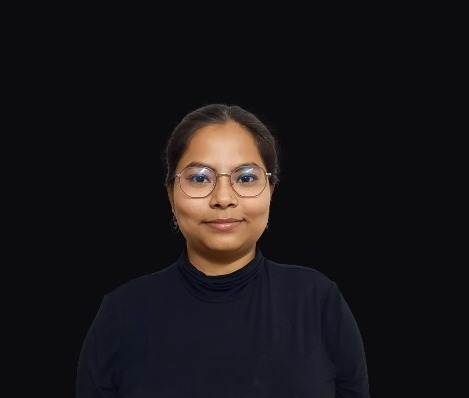
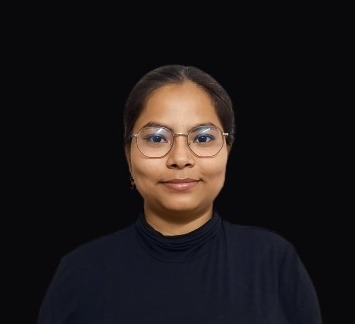
Updated alignments and background colors

diff --git a/index.html b/index.html
@@ -11,7 +11,7 @@
     <div id="header">
         <div class="nav-container">
             <nav>
-                <img src="AK_logo.png" width="200px" height="120px">
+                <img src="Ak_logo.jpg" width="200px" height="120px">
                 <ul>
                     <li>
                         <a href="#header">Home</a>
@@ -28,9 +28,9 @@
                 </ul>
             </nav>  
             <div class="intro-text">
-                <p>REACT JS, C++, C INSTRUCTOR, DEVELOPER</p>
+                <p>REACT, JS, C++ INSTRUCTOR, DEVELOPER</p>
                 <h1>Hello, I am <span>Akriti</span><br> from Kanpur</h1>
-                <p>Expert in ReactJS, JavaScript and C++</p>
+                <p>Expert in ReactJS, JavaScript, C++, C</p>
             </div>   
         </div>
     </div>
@@ -39,6 +39,7 @@
             <div class="about-row">
                     <div class="about-col-1">
                             <img src="ak_intro.jpg">
+                            
                     </div>
                     <div class="about-col-2">
                         <h1 class="caption">About Me!</h1>
@@ -121,7 +122,7 @@
                 <h1 class="caption1">My Projects</h1>
                 <div class="services-list">
                     <div >
-                        <h2>Nowait jutFood </h2>
+                        <h2>Nowait justFood </h2>
                         <p>This project is clone of food delivery web-app swiggy.com. In which I have used actuall swiggy's API to show restaurent data. Below is the link to visit on this project in detail.</p>
                         <a href="https://github.com/akritiyadav001/Nowait_justFood" target="_blank">View   <i class="fa-solid fa-arrow-up-right-from-square"></i></a>
                       
@@ -152,7 +153,7 @@
                 <div class="contact-left">
                     <h1 class="caption1">Contact Me!</h1>
                     <p><img src="send.png" height="15px" width="20px">gdakriti.yadav001@gmail.com</p>
-                    <p><img src="phone.png" height="15px" width="20px">9421739451</p>
+                    <p><img src="phone.png" height="15px" width="20px">9621729451</p>
                     <div class="social-media-icons">
                         <a href="https://www.linkedin.com/in/akriti007" target="_blank">
                             <img src="linkedIb_icon.png" >
@@ -165,15 +166,15 @@
                         </a>
                     </div>
                     <div class="download-resume">
-                           <button><a href="https://drive.google.com/file/d/1-7LzUVCDPQuD1fCgE4WrTuPijC-WaFbh/view?usp=drive_link">Download Resume</a></button>
+                           <button><a href="https://drive.google.com/file/d/1-7LzUVCDPQuD1fCgE4WrTuPijC-WaFbh/view?usp=drive_link" target="_blank">Download Resume</a></button>
                     </div>
                 </div>
                 <div class="contact-right">
                     <form name="submit-to-google-sheet">
-                        <input type="text" name="Name" placeholder="Your name" required autocomplete="off">
+                        <input type="text" name="Name" placeholder="Your name" required autocomplete="off" autofocus>
                         <input type="email" name="Email" placeholder="Your email" required autocomplete="off">
                         <textarea name="Message" rows="6" cols="6" placeholder="Your message"></textarea autocomplete="off">
-                        <button type="submit" style="width: 30%; font-size: 18px;height: 50px; border-radius: 6px; border:0; outline: none; cursor: pointer;">Submit</button>
+                        <button type="submit">Submit</button>
                     </form>
                     <span id="confirm-submit"></span>
                 </div>

diff --git a/index.css b/index.css
@@ -4,7 +4,7 @@
     font-family: 'Poppins', sans-serif;
 }
 body{
-    background-color:#09090c;
+     background-color:#09090c; 
     color:#fff;
 }
 #header{
@@ -31,7 +31,7 @@ nav ul
     display: flex;
     list-style-type: none;
     width: 500px; 
- /*    border: 1px solid red; */
+   /*   border: 1px solid red;  */
     justify-content: space-around;
 }
 nav ul li a{
@@ -86,7 +86,7 @@ nav ul li a:hover::after{
 }
 .about-col-1
 {
-   /*  border: 2px solid rgb(60, 0, 255);  */
+    
     flex-basis: 35%;   
 
 
@@ -94,8 +94,6 @@ nav ul li a:hover::after{
 .about-col-1 img
 {
     width: 100%;
-   
-    box-shadow:  0px 0px 20px  #4d4a4b  ;
     border-radius: 15px;
 }
 .about-col-2
@@ -108,6 +106,7 @@ nav ul li a:hover::after{
     font-size:60px;
     font-weight: bold;
     color:#fff;
+    margin-bottom: 10px;
    /*  border: 1px solid red; */
    
 }
@@ -115,6 +114,7 @@ nav ul li a:hover::after{
 {
     text-align: justify;
     padding-right: 10px;
+    line-height: 20px;
 }
 /* .tab-titles
 {
@@ -164,7 +164,7 @@ nav ul li a:hover::after{
 }
 .about-tab-content ul li span
 {
-    color:rgb(224, 132, 132);
+    color:rgb(248, 95, 95);
     font-size: 14px;
 }
 .about-tab-content ul li
@@ -196,6 +196,7 @@ nav ul li a:hover::after{
     font-weight: bold;
     color:#fff;
     margin-left:20px;
+    border: 1px solid red;
 }
 .services-list
 {
@@ -248,24 +249,37 @@ nav ul li a:hover::after{
     padding: 30px;
     justify-content:space-between;
     flex-wrap: wrap;
+    border: 1px solid green;
 }
 
 .contact-left
 {
-    padding: 40px;
+    padding: 40px; 
     flex-basis: 35%;
-   /*  border: 1px solid blue; */
+     border: 1px solid blue; 
 }
-.contact-left p
+.contact-left p, .social-media-icons, .download-resume
 {
-    margin: 10px 0px;
+     margin: 10px 0px 10px 20px;
 }
-.contact-right
+.contact-left .download-resume button
 {
-    padding: 40px;
-    flex-basis: 60%;
-   /*  border: 1px solid red; */
+    padding: 10px;
+    width: 50%;
+    font-size: 18px;
+    font-weight: bold;
+    color: #2b2728;
+    height: 50px; 
+    border-radius: 6px;
+    border:0;
+    outline: none;
+    cursor: pointer;
 }
+.contact-left .download-resume button:hover
+{
+    box-shadow: 0px 0px 10px white;
+}
+
 .contact-left .social-media-icons a i
 {
     cursor: pointer;
@@ -291,11 +305,18 @@ nav ul li a:hover::after{
     border-radius: 5px;
     font-weight: 500;
 }
+.contact-right
+{
+    padding: 40px;
+    flex-basis: 60%;
+   /*  border: 1px solid red; */
+}
 .contact-right form
 {
     width: 100%;
     display: flex;
     flex-direction: column;
+    border:2px solid red;
 
 }
 .contact-right form input, textarea
@@ -309,6 +330,25 @@ nav ul li a:hover::after{
     background-color: #2b2728;
     font-size: 18px;
     border-radius:8px;
+}
+ .contact-right form button
+{
+    margin: 10px;
+    padding: 20px;
+    width: 30%;
+    font-size: 18px;
+    font-weight: bold;
+    color: #2b2728;
+    height: 50px; 
+    border-radius: 6px;
+    border:0;
+    outline: none;
+    cursor: pointer;
+
+} 
+.contact-right form button:hover
+{
+    box-shadow: 0px 0px 10px white;
 }
 #copyright
 {
